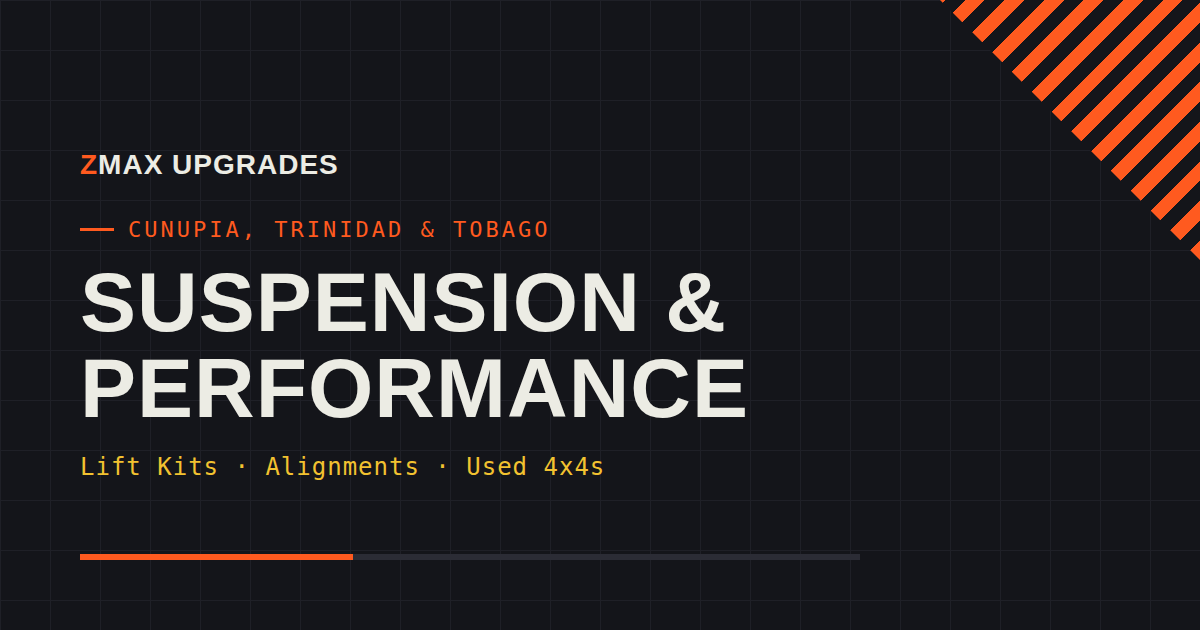
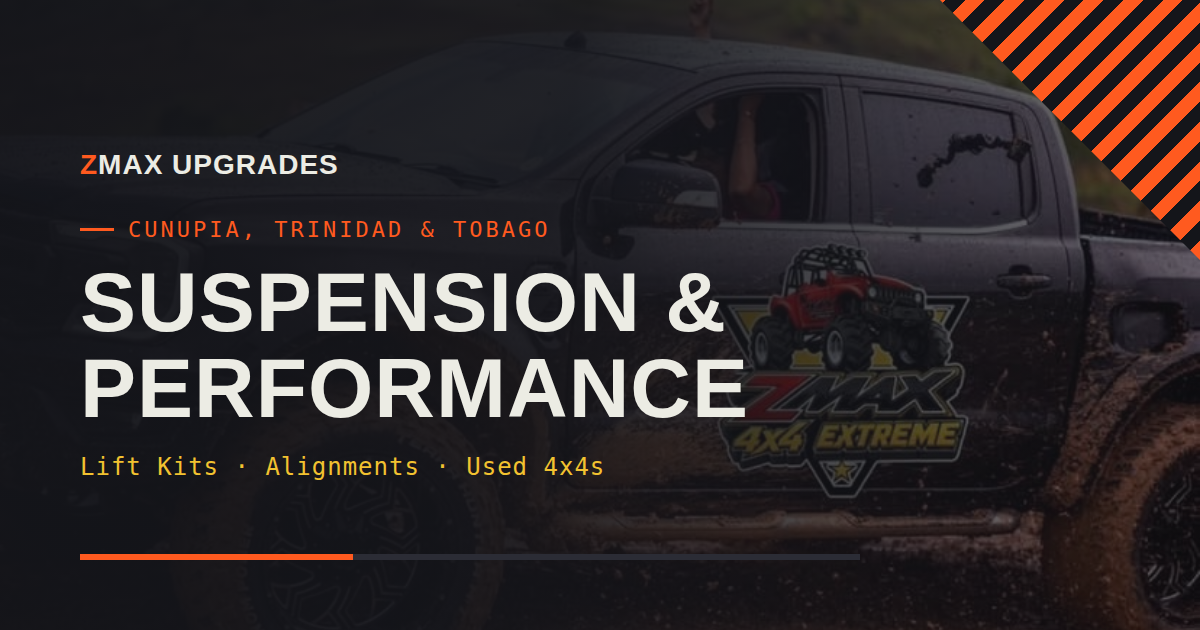
Bring in real ZMAX Instagram photos: hero, work gallery, service images
Replace the placeholder SVG hero with a real shop action photo, add a
"Recent Work" gallery on the home page sourced from @zmaxupgrades posts,
and drop real product photos into the Lift Kits, Coilover, and new
Widebody Fender Flares service cards. Instagram screenshots were cropped
to strip app chrome/captions; two promo graphics with time-limited "was/now"
sale pricing were cropped down to product-only shots since that pricing
can't be verified as current. Regenerated the home page's OG social image
to use the new hero photo.

Changed region(s): [[0.4933, 0.0, 1.0, 1.0], [0.6167, 0.2111, 0.6475, 0.3016], [0.7708, 0.9952, 0.8017, 1.0]]

diff --git a/zmax-upgrades-site/index.html b/zmax-upgrades-site/index.html
@@ -55,7 +55,7 @@
 
 <main id="main">
 
-  <section class="hero" style="--page-hero-img: url('images/hero-workshop.svg'); background-image: var(--page-hero-img);">
+  <section class="hero" style="--page-hero-img: url('images/hero-truck.jpg'); background-image: var(--page-hero-img);">
     <div class="hero-inner">
       <p class="eyebrow">Cunupia, Trinidad &amp; Tobago</p>
       <h1>Suspension &amp; Performance, Done Right</h1>
@@ -105,6 +105,45 @@
       </div>
       <p style="text-align:center; margin-top: var(--space-4);">
         <a class="btn btn-secondary" href="services.html">See Full Service List</a>
+      </p>
+    </div>
+  </section>
+
+  <section aria-labelledby="work-heading">
+    <div class="container">
+      <div class="section-head">
+        <p class="eyebrow">From the Shop Floor</p>
+        <h2 id="work-heading">Recent Work</h2>
+        <p>A few recent installs and parts, straight off @zmaxupgrades on Instagram.</p>
+      </div>
+      <div class="work-gallery">
+        <a href="https://www.instagram.com/zmaxupgrades" target="_blank" rel="noopener">
+          <img src="images/gallery/hilux-lifted-build.png" alt="Toyota Hilux fitted with a ZMAX full suspension kit" width="148" height="166" loading="lazy">
+        </a>
+        <a href="https://www.instagram.com/zmaxupgrades" target="_blank" rel="noopener">
+          <img src="images/gallery/hilux-vigo-coilovers.png" alt="Red ZMAX coilovers for a Toyota Hilux Vigo Revo" width="148" height="182" loading="lazy">
+        </a>
+        <a href="https://www.instagram.com/zmaxupgrades" target="_blank" rel="noopener">
+          <img src="images/gallery/l200-lift-kit.png" alt="Mitsubishi L200 3 inch suspension lift kit" width="148" height="170" loading="lazy">
+        </a>
+        <a href="https://www.instagram.com/zmaxupgrades" target="_blank" rel="noopener">
+          <img src="images/gallery/shocks-upper-arms-kit.png" alt="ZMAX shocks and upper control arms display" width="148" height="192" loading="lazy">
+        </a>
+        <a href="https://www.instagram.com/zmaxupgrades" target="_blank" rel="noopener">
+          <img src="images/gallery/coilovers-lineup.png" alt="A row of coilovers ready for install" width="148" height="150" loading="lazy">
+        </a>
+        <a href="https://www.instagram.com/zmaxupgrades" target="_blank" rel="noopener">
+          <img src="images/gallery/shocks-boxed.png" alt="ZMAX shocks packaged and ready to fit" width="148" height="170" loading="lazy">
+        </a>
+        <a href="https://www.instagram.com/zmaxupgrades" target="_blank" rel="noopener">
+          <img src="images/gallery/fender-flare-white-truck.png" alt="Widebody fender flare fitted on a pickup truck" width="148" height="128" loading="lazy">
+        </a>
+        <a href="https://www.instagram.com/zmaxupgrades" target="_blank" rel="noopener">
+          <img src="images/gallery/suspension-display-board.png" alt="ZMAX upgraded suspension parts on display" width="148" height="166" loading="lazy">
+        </a>
+      </div>
+      <p style="text-align:center; margin-top: var(--space-4);">
+        <a class="btn btn-secondary" href="https://www.instagram.com/zmaxupgrades" target="_blank" rel="noopener">Follow @zmaxupgrades</a>
       </p>
     </div>
   </section>

diff --git a/zmax-upgrades-site/services.html b/zmax-upgrades-site/services.html
@@ -70,6 +70,9 @@
       <div class="card-grid">
 
         <article class="job-card">
+          <div class="job-card-image">
+            <img src="images/products/control-arm-product.png" alt="ZMAX billet aluminium extended upper control arm" width="828" height="362" loading="lazy">
+          </div>
           <span class="job-code">JOB 01 — SUSPENSION</span>
           <h3>Lift Kits &amp; Body Lifts</h3>
           <p>Body and suspension lift installs for daily-driven and off-road builds, matched to tyre size and ride intent.</p>
@@ -81,6 +84,9 @@
         </article>
 
         <article class="job-card">
+          <div class="job-card-image">
+            <img src="images/products/rear-shock-product.png" alt="A pair of ZMAX rear shocks with adjustable damper dials" width="828" height="397" loading="lazy">
+          </div>
           <span class="job-code">JOB 02 — SUSPENSION</span>
           <h3>Coilover &amp; Shock Setup</h3>
           <p>Coilover installs and shock replacement, tuned for ride height and damping — from comfort-focused to off-road ready.</p>
@@ -153,6 +159,20 @@
           <ul>
             <li><span>Turnaround</span> <span>Same day</span></li>
             <li><span>Report</span> <span>Printed spec sheet</span></li>
+            <li><span>Pricing</span> <span>Ask for current rates</span></li>
+          </ul>
+        </article>
+
+        <article class="job-card">
+          <div class="job-card-image">
+            <img src="images/gallery/fender-flare-white-truck.png" alt="Widebody fender flare fitted on a pickup truck" width="148" height="128" loading="lazy">
+          </div>
+          <span class="job-code">JOB 09 — BODY</span>
+          <h3>Widebody Fender Flares</h3>
+          <p>Widebody fender flare kits fitted to cover wider tyres and give lifted trucks a finished look.</p>
+          <ul>
+            <li><span>Turnaround</span> <span>Varies by kit</span></li>
+            <li><span>Sourcing</span> <span>We can order in</span></li>
             <li><span>Pricing</span> <span>Ask for current rates</span></li>
           </ul>
         </article>

diff --git a/zmax-upgrades-site/styles.css b/zmax-upgrades-site/styles.css
@@ -311,6 +311,35 @@ section { padding: var(--space-6) 0; }
   flex-direction: column;
   gap: var(--space-2);
 }
+.job-card-image {
+  margin: calc(var(--space-4) * -1) calc(var(--space-4) * -1) 0;
+  aspect-ratio: 16 / 9;
+  overflow: hidden;
+  background: var(--asphalt);
+}
+.job-card-image img { width: 100%; height: 100%; object-fit: cover; }
+
+/* ---------- Recent work gallery ---------- */
+.work-gallery {
+  display: grid;
+  grid-template-columns: repeat(auto-fill, minmax(150px, 1fr));
+  gap: var(--space-2);
+}
+.work-gallery a {
+  display: block;
+  aspect-ratio: 1 / 1;
+  overflow: hidden;
+  border: 1px solid var(--asphalt-line);
+  position: relative;
+}
+.work-gallery img {
+  width: 100%;
+  height: 100%;
+  object-fit: cover;
+  transition: transform 0.2s ease;
+}
+.work-gallery a:hover img,
+.work-gallery a:focus-visible img { transform: scale(1.06); }
 .job-card .job-code {
   font-family: var(--font-mono);
   font-size: 0.75rem;
